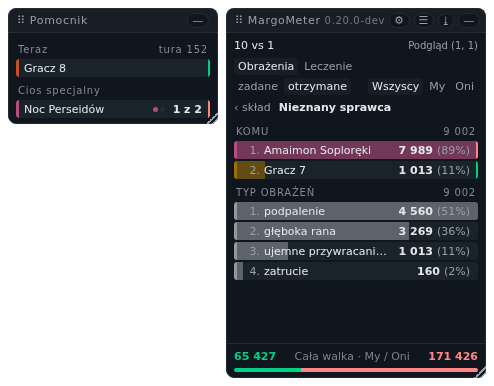
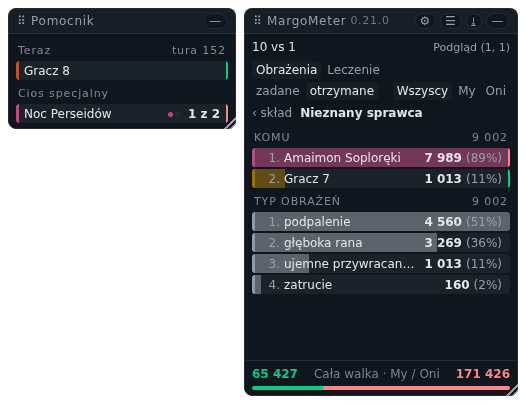
build(release): 0.21.0, windows sized by their corner, a chosen font size, and the fight's place and card on its line
Nine entries under one number, four **Nowość**, four **Zmiana** and
one **Poprawka**, moved from `[Niewydane]` unchanged. A player meets:
- both windows sized by their corner, kept across a reload, and put
  back from the options;
- a font size chosen in the options, small, medium or large, and the
  medium one where none was chosen, so both windows open a little
  larger than 0.20.0's;
- a card over the fight's line and over a shelf row saying when,
  where, on which world and on which character;
- the unknown-source or unknown-target row inside an opened person
  opening onto its kinds of damage or healing;
- the place on one line with the headcount and the outcome;
- where fights are kept, chosen under ⚙ rather than on the shelf;
- damage dealt and taken counting what absorption and magic
  absorption took, so "Zatrzymane" is the block alone;
- Pomocnik saying there was no fight yet, rather than standing bare.

The number is a minor one, because four entries are new.

THE AUDIT, run as `docs/releasing.md` step 1 orders it, against
`git show v0.20.0:<path>`, over the 21 commits v0.20.0..cb08a9c:

  - Every entry names a commit that makes it: 877f42c (corner sizing),
    7829a28 and cb08a9c (font size, its default), 75040f9 (place on the
    line, the fight's card), bba161c (unknown ends opening), aadeb64
    (the storage choice under ⚙), 0e79827 (absorption) and 68d847a
    (Pomocnik before a fight).
  - Five fixes stay out of the changelog, each closing what this cycle
[…]

diff --git a/CHANGELOG.md b/CHANGELOG.md
@@ -37,7 +37,7 @@ Wszystkie istotne zmiany w tym dodatku są tu notowane.
 > wszystko może się zmienić w każdej chwili. Do czasu `1.0.0` czytaj wpisy oznaczone **Zmiana**
 > przed aktualizacją.
 
-## [Niewydane]
+## [0.21.0] — 2026-09-30
 
 - **Nowość** — Panel i Pomocnika można powiększyć, ciągnąc za prawy dolny róg; rozmiar zostaje po
   odświeżeniu strony, a w opcjach pod ⚙ można go przywrócić.
